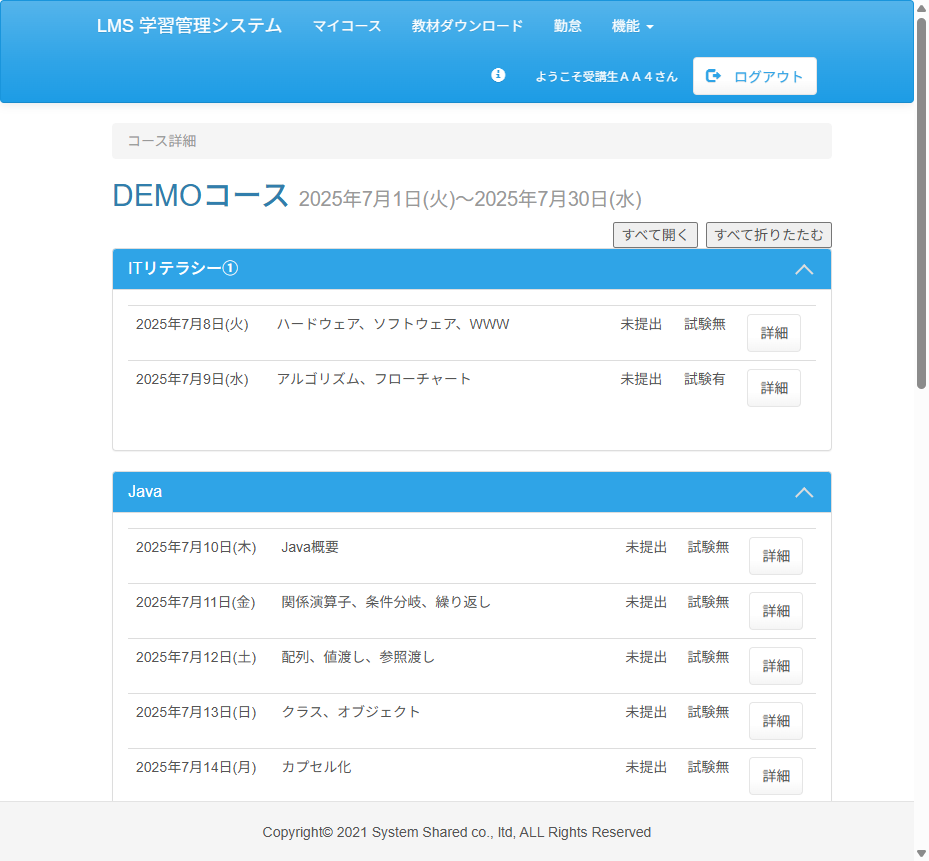
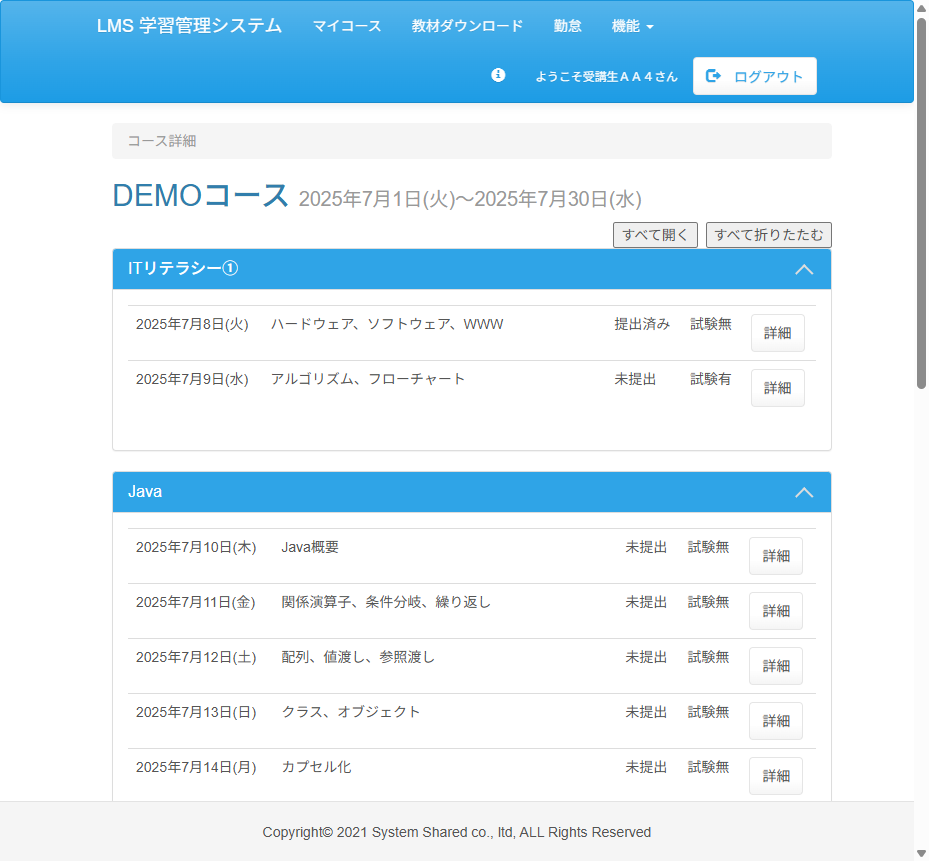
fix：Case05、マフカム
Case05のTest05の修正

diff --git a/test_code_creation_name/src/test/java/jp/co/sss/lms/ct/f02_faq/Case05.java b/test_code_creation_name/src/test/java/jp/co/sss/lms/ct/f02_faq/Case05.java
@@ -11,7 +11,6 @@ import org.junit.jupiter.api.Order;
 import org.junit.jupiter.api.Test;
 import org.junit.jupiter.api.TestMethodOrder;
 import org.openqa.selenium.By;
-import org.openqa.selenium.Keys;
 import org.openqa.selenium.WebElement;
 
 /**
@@ -103,8 +102,8 @@ public class Case05 {
 		searchInput.clear();
 		//キーワード（セルフ）を入力
 		searchInput.sendKeys("セルフ");
-		//Enterを押下
-		searchInput.sendKeys(Keys.ENTER);
+		//「検索」ボタンをクリック
+		webDriver.findElement(By.cssSelector("input[type='submit']")).click();
 		//検索結果を取得
 	    WebElement resultArea = webDriver.findElement(By.className("mb10"));
 	    //検索結果に「セルフ」が含まれているかチェック
